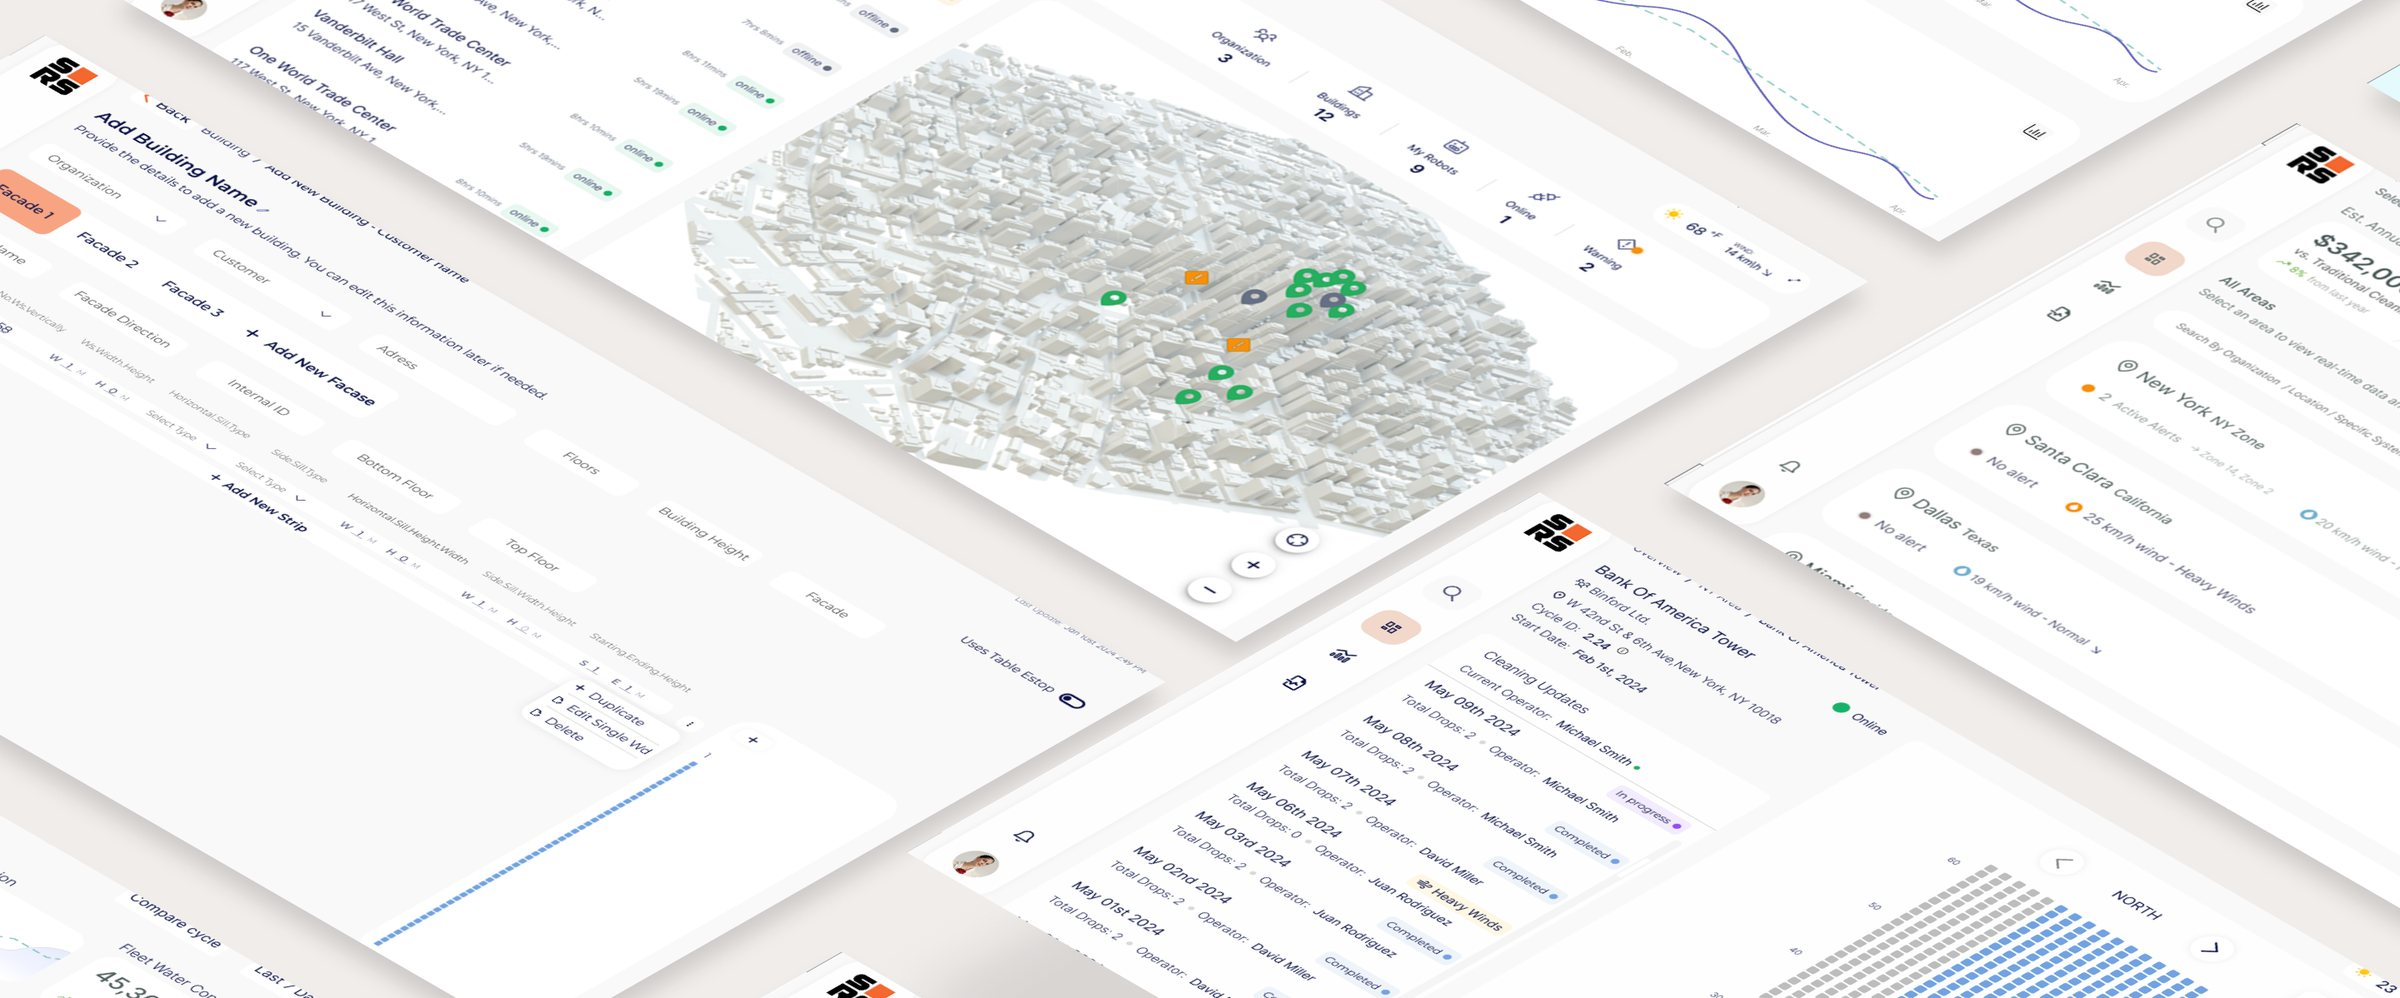
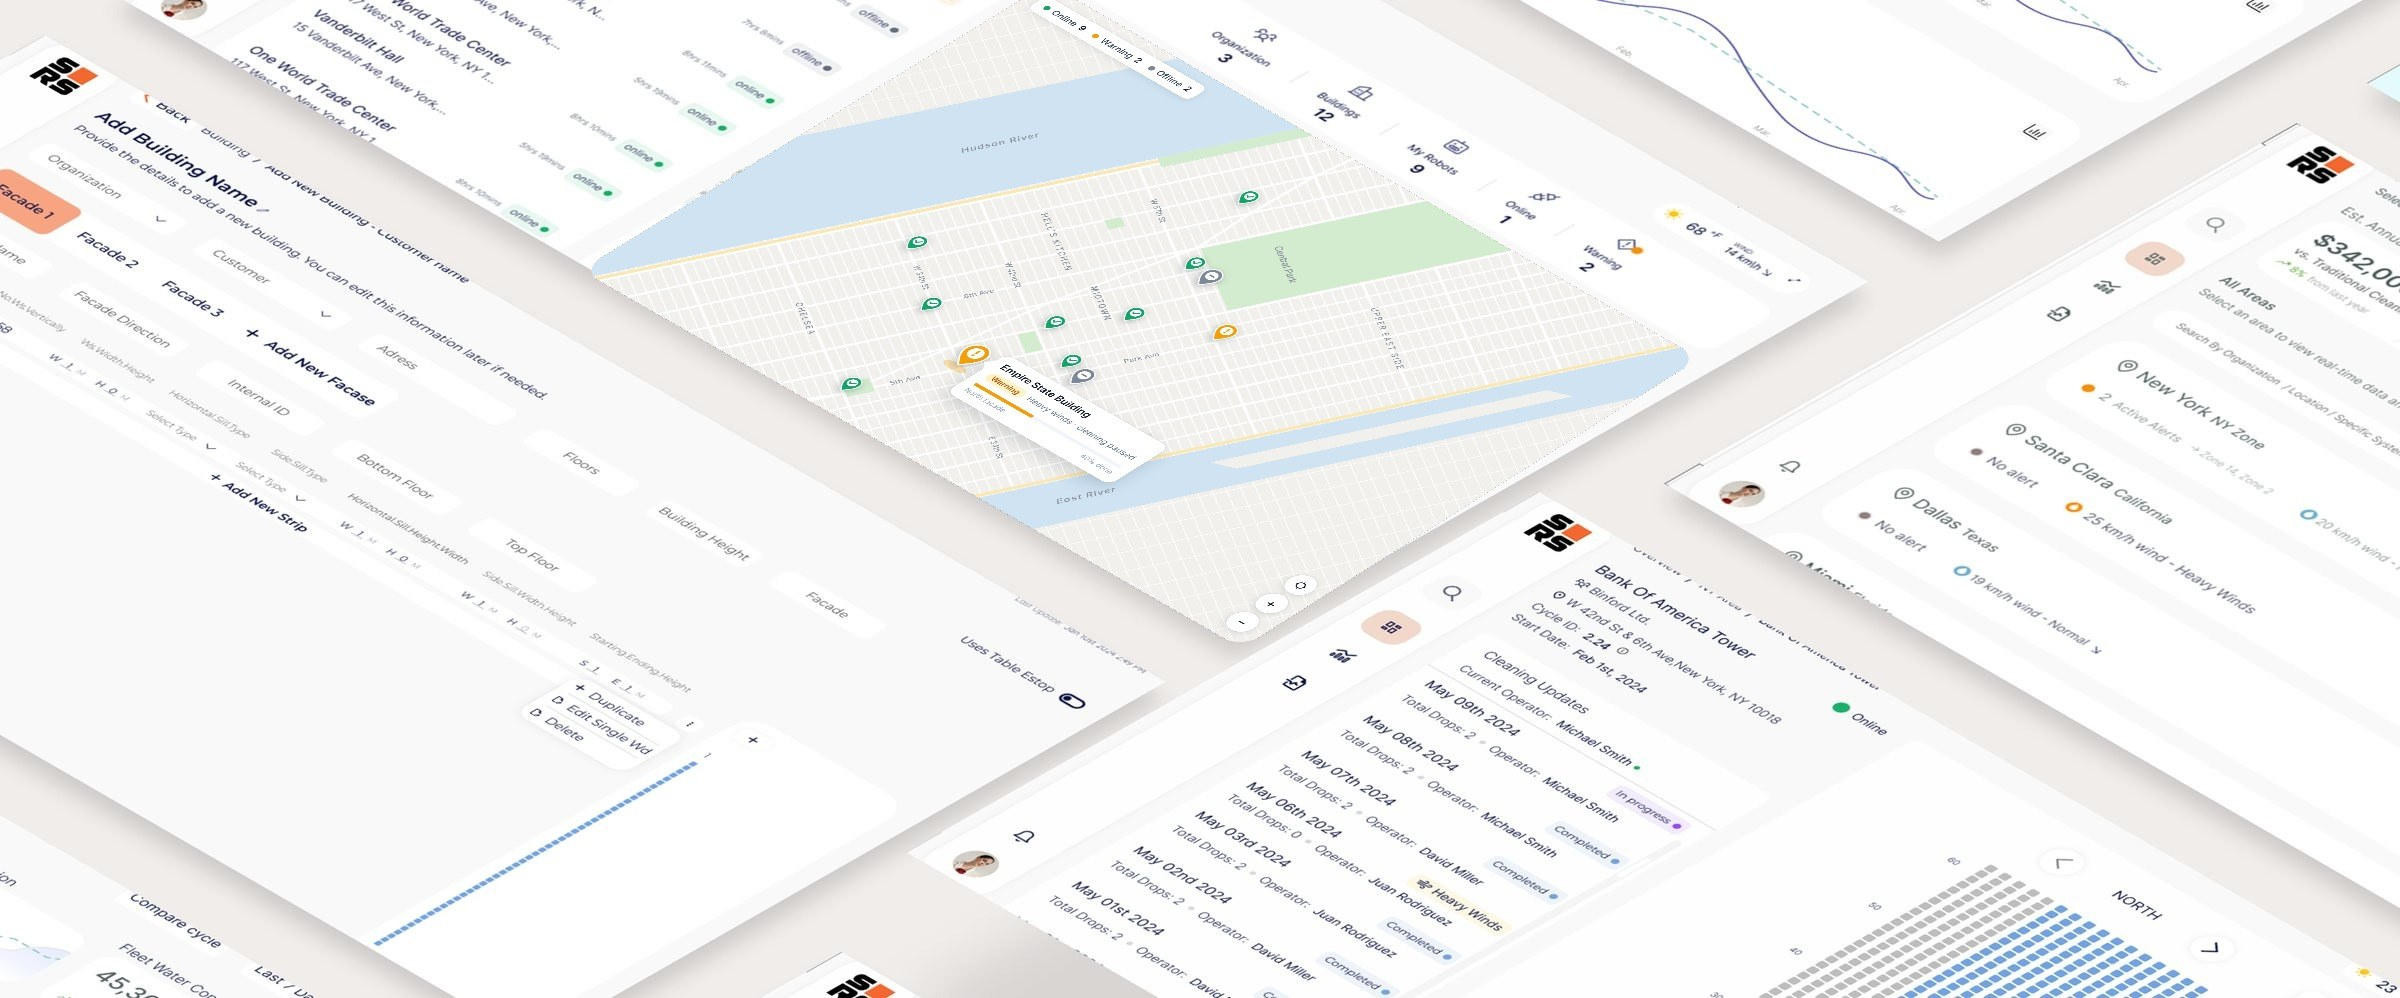
Skyline: replace 3D city map with a flat map in all screens
Region screen, hero, laptop mockup, hierarchy layers and the home card now show
a flat Manhattan map with status pins and a selected-building callout.
Copy updated to drop "3D".

Claude-Session: https://claude.ai/code/session_01J9yPeBdVcBmf13JRMLxGDT

Changed region(s): [[0.25, 0.0311, 0.7188, 0.5591], [0.4688, 0.5902, 0.5625, 0.6523]]

diff --git a/skyline.html b/skyline.html
@@ -31,7 +31,7 @@
   <div class="hero-grid art-left"><div class="hero-art robot"><img src="/img/skyline/robot.jpg" alt="" width="676" height="1056"></div><div><p class="company">Skyline Robotics</p><h1>Fleet Monitoring Platform</h1><p class="subtitle">B2B SaaS platform for robotic window-cleaning operations</p><div class="lede"><p>Skyline Robotics builds autonomous robots that clean the windows of skyscrapers. The robots collected a lot of operational data, but the company had no product that let its clients use it.</p><p>As the only designer, I designed that product from the ground up: a B2B SaaS platform and its design system, built for three users with different needs. Cleaning company owners track what the fleet saves them, area managers follow every building in real time, and building managers get performance reports.</p></div><ul class="chips" aria-label="Topics"><li>User research</li><li>Data visualization</li><li>Design system</li><li>0 → 1 product</li><li>B2B</li><li>SaaS</li></ul><dl class="overview" style="--cols: 4"><div><dt>Role</dt><dd>Lead Product Designer</dd></div><div><dt>Timeline</dt><dd>2024 – 2026</dd></div><div><dt>Team</dt><dd>1 Designer, 4 Engineers</dd></div><div><dt>Platform</dt><dd>SaaS Platform</dd></div></dl></div></div>
   
 </div>
-<img src="/img/skyline/hero.jpg" alt="Skyline platform screens laid out in perspective: building onboarding, the 3D city map, fleet overview and a building’s cleaning log" width="2400" height="998" class="banner" loading="lazy" decoding="async"><section class="section">
+<img src="/img/skyline/hero.jpg" alt="Skyline platform screens laid out in perspective: building onboarding, the city map, fleet overview and a building’s cleaning log" width="2400" height="998" class="banner" loading="lazy" decoding="async"><section class="section">
   <div class="wrap">
     <p class="eyebrow">The challenge</p>
     <h2>Clients had no way to see what their robots were doing</h2>
@@ -86,7 +86,7 @@
     <p class="eyebrow">The platform</p>
     <h2>From the whole fleet down to a single window</h2>
     
-    <div class="stack" style="margin-top: clamp(40px, 5vw, 64px)"><div class="step"><p class="steplabel">The way in</p><h3 class="subhead">Login: Facade Analytics</h3><p class="lead">A simple sign-in screen. The illustration shows the idea behind the product: seeing what happens on the outside of the building.</p><div class="shot"><img src="/img/skyline/login.jpg" alt="Login screen: “Welcome to Skyline’s Facade Analytics. Data, outside the four walls” next to the sign-in form" width="2400" height="1467" loading="lazy" decoding="async"></div><ul class="callouts" style="--cols: 3"><li><h3>Brand identity</h3><p>Skyline Robotics branding, kept minimal.</p></li><li><h3>Visual metaphor</h3><p>An AI-generated illustration of the product idea.</p></li><li><h3>Minimal sign-in</h3><p>A short sign-in form.</p></li></ul></div><div class="step"><p class="steplabel">Level 1 · Entry point</p><h3 class="subhead">Global Fleet Overview</h3><p class="lead">The owner’s entry point answers one question first: is anything wrong right now? What needs attention sits above the areas, and the areas are sorted by priority.</p><div class="shot"><img src="/img/skyline/fleet.jpg" alt="Fleet overview: savings, robots working, active alerts and uptime; a Needs your attention list with a high-wind stop in Los Angeles and a slowdown in Chicago; and areas sorted by priority with progress, robots, weather and buildings" width="2400" height="1475" loading="lazy" decoding="async"></div><p class="note">Figures shown are sample data.</p><ul class="callouts" style="--cols: 3"><li><h3>KPI cards</h3><p>Savings, robots working, active alerts and uptime, each with its trend.</p></li><li><h3>Needs your attention</h3><p>The few issues that need a decision, each with a direct link to the log or the trend.</p></li><li><h3>Areas by priority</h3><p>Critical first, with a color edge, progress, robots and live weather per area.</p></li></ul></div><div class="step"><p class="steplabel">Level 2 · Regional</p><h3 class="subhead">Regional Drill-Down (NYC)</h3><p class="lead">The area manager’s entry point: every building in the region with its live status, on a 3D map with weather and wind alongside.</p><div class="shot"><img src="/img/skyline/region.jpg" alt="New York region: building list with online, warning and offline states next to a 3D city map with status pins" width="2400" height="1475" loading="lazy" decoding="async"></div><ul class="callouts" style="--cols: 2"><li><h3>Status indicators</h3><p>A color-coded building list with online, warning and issue states.</p></li><li><h3>Weather widget</h3><p>Temperature, wind speed and operational safety thresholds, right next to the buildings.</p></li></ul></div><div class="step"><p class="steplabel">Level 3 · Building detail</p><h3 class="subhead">Building Deep-Dive</h3><p class="lead">Window-by-window progress for a single building, with facade switching and a cleaning log that records every cycle, including weather stops.</p><div class="shot"><img src="/img/skyline/building.jpg" alt="Single building view: cleaning log with a heavy-winds stop and a window grid of the north facade" width="2400" height="1475" loading="lazy" decoding="async"></div><ul class="callouts" style="--cols: 3"><li><h3>Historic cycles</h3><p>Past cleaning cycles and their completion, for performance tracking.</p></li><li><h3>Facade switching</h3><p>North, south, east and west facades, to follow work on every side.</p></li><li><h3>Window grid</h3><p>The facade as a grid, with the live cleaning status of every window.</p></li></ul></div><div class="step"><p class="steplabel">Building setup</p><h3 class="subhead">Building Onboarding</h3><p class="lead">Every window in the view above has to be mapped before a robot can start. I designed the screen where the operator enters it on-site, with no developer in between: one drop, duplicated across the facade, with soft checks that catch typos before they reach the robot.</p><div class="proto-video"><video src="/img/building-onboarding/prototype.mp4" poster="/img/building-onboarding/prototype-poster.jpg" width="1440" height="900" autoplay muted loop playsinline preload="metadata" aria-label="Walkthrough of the Add New Building screen: a soft check catches a 12 m window width, the window sequence is edited live on the facade, and the facade is duplicated to a shorter side"></video></div><script>(function(){var v=document.currentScript.previousElementSibling.querySelector("video");if(matchMedia("(prefers-reduced-motion: reduce)").matches){v.removeAttribute("autoplay");v.pause();v.controls=true}})()</script><a class="link-card" href="/building-onboarding"><span><b>Building Onboarding</b> · Read the full case study</span><svg width="14" height="14" viewBox="0 0 16 16" fill="none" aria-hidden="true"><path d="M3 8h9M8.5 4.5 12 8l-3.5 3.5" stroke="currentColor" stroke-width="1.5" stroke-linecap="square"/></svg></a></div><div class="step"><p class="steplabel">Level 4 · Management</p><h3 class="subhead">Granular analytics and anomaly detection</h3><p class="lead">Operational KPIs for a single building, compared against historical averages to surface anomalies.</p><div class="shot"><img src="/img/skyline/analytics.jpg" alt="Building analytics: savings and hours-saved cards, completed drops, and resource use compared with historical averages" width="2400" height="1475" loading="lazy" decoding="async"></div><p class="note">Figures shown are sample data.</p><ul class="callouts" style="--cols: 3"><li><h3>Business value</h3><p>Estimated annual savings and operational hours saved, compared with traditional cleaning.</p></li><li><h3>Benchmarking</h3><p>Current resource use against historical averages, to spot spikes early.</p></li><li><h3>Progress tracking</h3><p>Completed drops against the plan, with daily averages.</p></li></ul></div><div class="step"><p class="steplabel">Level 4 · Reports</p><h3 class="subhead">Operational analytics</h3><p class="lead">Performance scores, completed drops and water consumption per building, for client and sustainability reporting.</p><div class="shot"><img src="/img/skyline/reports.jpg" alt="Report view with performance scores, completed drops and water consumption per building" width="2400" height="1475" loading="lazy" decoding="async"></div><p class="note">Figures shown are sample data.</p><ul class="callouts" style="--cols: 3"><li><h3>Performance scores</h3><p>Actual against expected performance, per building.</p></li><li><h3>Completed drops</h3><p>Historical data on completed operations.</p></li><li><h3>Water consumption</h3><p>Usage per day, with anomaly alerts for unusual use.</p></li></ul></div></div>
+    <div class="stack" style="margin-top: clamp(40px, 5vw, 64px)"><div class="step"><p class="steplabel">The way in</p><h3 class="subhead">Login: Facade Analytics</h3><p class="lead">A simple sign-in screen. The illustration shows the idea behind the product: seeing what happens on the outside of the building.</p><div class="shot"><img src="/img/skyline/login.jpg" alt="Login screen: “Welcome to Skyline’s Facade Analytics. Data, outside the four walls” next to the sign-in form" width="2400" height="1467" loading="lazy" decoding="async"></div><ul class="callouts" style="--cols: 3"><li><h3>Brand identity</h3><p>Skyline Robotics branding, kept minimal.</p></li><li><h3>Visual metaphor</h3><p>An AI-generated illustration of the product idea.</p></li><li><h3>Minimal sign-in</h3><p>A short sign-in form.</p></li></ul></div><div class="step"><p class="steplabel">Level 1 · Entry point</p><h3 class="subhead">Global Fleet Overview</h3><p class="lead">The owner’s entry point answers one question first: is anything wrong right now? What needs attention sits above the areas, and the areas are sorted by priority.</p><div class="shot"><img src="/img/skyline/fleet.jpg" alt="Fleet overview: savings, robots working, active alerts and uptime; a Needs your attention list with a high-wind stop in Los Angeles and a slowdown in Chicago; and areas sorted by priority with progress, robots, weather and buildings" width="2400" height="1475" loading="lazy" decoding="async"></div><p class="note">Figures shown are sample data.</p><ul class="callouts" style="--cols: 3"><li><h3>KPI cards</h3><p>Savings, robots working, active alerts and uptime, each with its trend.</p></li><li><h3>Needs your attention</h3><p>The few issues that need a decision, each with a direct link to the log or the trend.</p></li><li><h3>Areas by priority</h3><p>Critical first, with a color edge, progress, robots and live weather per area.</p></li></ul></div><div class="step"><p class="steplabel">Level 2 · Regional</p><h3 class="subhead">Regional Drill-Down (NYC)</h3><p class="lead">The area manager’s entry point: every building in the region with its live status, on a map with weather and wind alongside.</p><div class="shot"><img src="/img/skyline/region.jpg" alt="New York region: building list with online, warning and offline states next to a city map with status pins" width="2400" height="1475" loading="lazy" decoding="async"></div><ul class="callouts" style="--cols: 2"><li><h3>Status indicators</h3><p>A color-coded building list with online, warning and issue states.</p></li><li><h3>Weather widget</h3><p>Temperature, wind speed and operational safety thresholds, right next to the buildings.</p></li></ul></div><div class="step"><p class="steplabel">Level 3 · Building detail</p><h3 class="subhead">Building Deep-Dive</h3><p class="lead">Window-by-window progress for a single building, with facade switching and a cleaning log that records every cycle, including weather stops.</p><div class="shot"><img src="/img/skyline/building.jpg" alt="Single building view: cleaning log with a heavy-winds stop and a window grid of the north facade" width="2400" height="1475" loading="lazy" decoding="async"></div><ul class="callouts" style="--cols: 3"><li><h3>Historic cycles</h3><p>Past cleaning cycles and their completion, for performance tracking.</p></li><li><h3>Facade switching</h3><p>North, south, east and west facades, to follow work on every side.</p></li><li><h3>Window grid</h3><p>The facade as a grid, with the live cleaning status of every window.</p></li></ul></div><div class="step"><p class="steplabel">Building setup</p><h3 class="subhead">Building Onboarding</h3><p class="lead">Every window in the view above has to be mapped before a robot can start. I designed the screen where the operator enters it on-site, with no developer in between: one drop, duplicated across the facade, with soft checks that catch typos before they reach the robot.</p><div class="proto-video"><video src="/img/building-onboarding/prototype.mp4" poster="/img/building-onboarding/prototype-poster.jpg" width="1440" height="900" autoplay muted loop playsinline preload="metadata" aria-label="Walkthrough of the Add New Building screen: a soft check catches a 12 m window width, the window sequence is edited live on the facade, and the facade is duplicated to a shorter side"></video></div><script>(function(){var v=document.currentScript.previousElementSibling.querySelector("video");if(matchMedia("(prefers-reduced-motion: reduce)").matches){v.removeAttribute("autoplay");v.pause();v.controls=true}})()</script><a class="link-card" href="/building-onboarding"><span><b>Building Onboarding</b> · Read the full case study</span><svg width="14" height="14" viewBox="0 0 16 16" fill="none" aria-hidden="true"><path d="M3 8h9M8.5 4.5 12 8l-3.5 3.5" stroke="currentColor" stroke-width="1.5" stroke-linecap="square"/></svg></a></div><div class="step"><p class="steplabel">Level 4 · Management</p><h3 class="subhead">Granular analytics and anomaly detection</h3><p class="lead">Operational KPIs for a single building, compared against historical averages to surface anomalies.</p><div class="shot"><img src="/img/skyline/analytics.jpg" alt="Building analytics: savings and hours-saved cards, completed drops, and resource use compared with historical averages" width="2400" height="1475" loading="lazy" decoding="async"></div><p class="note">Figures shown are sample data.</p><ul class="callouts" style="--cols: 3"><li><h3>Business value</h3><p>Estimated annual savings and operational hours saved, compared with traditional cleaning.</p></li><li><h3>Benchmarking</h3><p>Current resource use against historical averages, to spot spikes early.</p></li><li><h3>Progress tracking</h3><p>Completed drops against the plan, with daily averages.</p></li></ul></div><div class="step"><p class="steplabel">Level 4 · Reports</p><h3 class="subhead">Operational analytics</h3><p class="lead">Performance scores, completed drops and water consumption per building, for client and sustainability reporting.</p><div class="shot"><img src="/img/skyline/reports.jpg" alt="Report view with performance scores, completed drops and water consumption per building" width="2400" height="1475" loading="lazy" decoding="async"></div><p class="note">Figures shown are sample data.</p><ul class="callouts" style="--cols: 3"><li><h3>Performance scores</h3><p>Actual against expected performance, per building.</p></li><li><h3>Completed drops</h3><p>Historical data on completed operations.</p></li><li><h3>Water consumption</h3><p>Usage per day, with anomaly alerts for unusual use.</p></li></ul></div></div>
   </div>
 </section>
 <section class="section">

diff --git a/index.html b/index.html
@@ -46,7 +46,7 @@
     <a class="btn" href="/skyline" aria-label="View case study: Skyline Robotics – Fleet Monitoring Platform">View case study <svg width="14" height="14" viewBox="0 0 16 16" fill="none" aria-hidden="true"><path d="M3 8h9M8.5 4.5 12 8l-3.5 3.5" stroke="currentColor" stroke-width="1.5" stroke-linecap="square"/></svg></a>
   </div>
   <a class="also-card" href="/building-onboarding"><img src="/img/home/building-onboarding-thumb.jpg" alt="" width="480" height="300" loading="lazy" decoding="async"><span class="ac-name"><b>Building Onboarding</b><span class="ac-line">Operators map new buildings into the system themselves</span></span><span class="ac-cta">View case study <svg width="14" height="14" viewBox="0 0 16 16" fill="none" aria-hidden="true"><path d="M3 8h9M8.5 4.5 12 8l-3.5 3.5" stroke="currentColor" stroke-width="1.5" stroke-linecap="square"/></svg></span></a>
-  <div class="visual-col"><div class="visual"><div class="device"><div class="screen"><img src="/img/home/skyline.jpg" alt="Skyline fleet monitoring: building list with live status next to a 3D map of New York" width="1800" height="1106" loading="lazy" decoding="async"></div></div><div class="float f1" style="width: 48%"><img src="/img/home/skyline-f1.png" alt="Fleet totals: buildings, bots, online and alerts" width="871" height="193" loading="lazy" decoding="async"></div><div class="float f2" style="width: 44%"><img src="/img/home/skyline-f2.png" alt="Two buildings with a warning status" width="890" height="296" loading="lazy" decoding="async"></div></div><p class="sample">Figures shown are sample data.</p></div>
+  <div class="visual-col"><div class="visual"><div class="device"><div class="screen"><img src="/img/home/skyline.jpg" alt="Skyline fleet monitoring: building list with live status next to a map of New York" width="1800" height="1106" loading="lazy" decoding="async"></div></div><div class="float f1" style="width: 48%"><img src="/img/home/skyline-f1.png" alt="Fleet totals: buildings, bots, online and alerts" width="871" height="193" loading="lazy" decoding="async"></div><div class="float f2" style="width: 44%"><img src="/img/home/skyline-f2.png" alt="Two buildings with a warning status" width="890" height="296" loading="lazy" decoding="async"></div></div><p class="sample">Figures shown are sample data.</p></div>
 </article>
 <article class="project">
   <div class="text">
